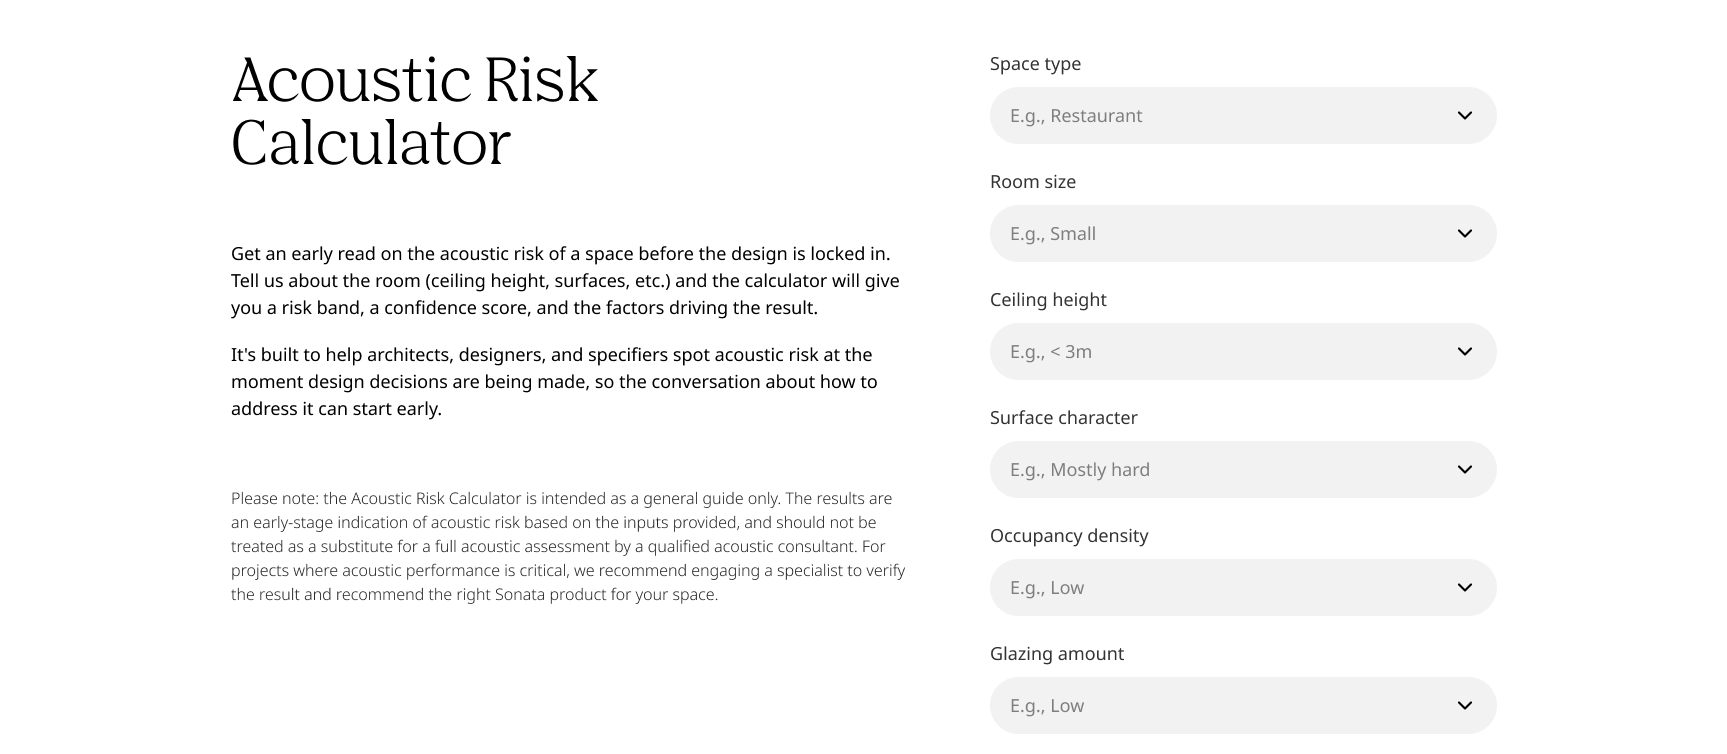
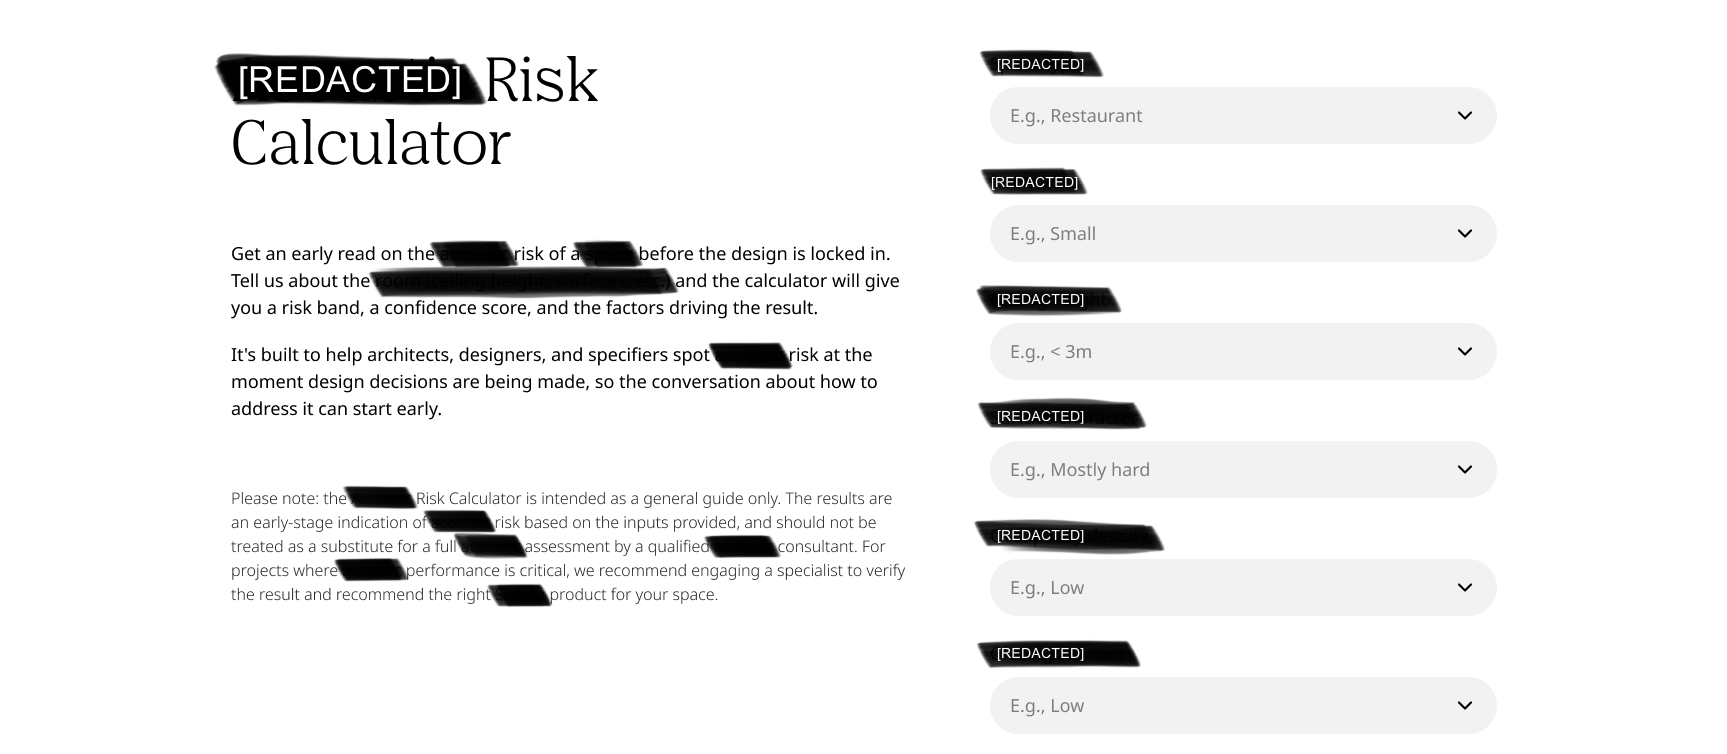
changing the sonata ai case study into a version that does not mention the client name or what the calculator does. Still need to update the hero, the two square images, and the tile image

diff --git a/src/data/caseStudies.ts b/src/data/caseStudies.ts
@@ -19,7 +19,7 @@ import sonataAi from '@assets/case-studies/sonata-ai/tile.webp'
 import aiRiskCalculator from '@assets/case-studies/ai-risk-calculator/tile.webp'
 import pfg from '@assets/case-studies/pfg/tile.webp'
 import fortKnox from '@assets/case-studies/fort-knox/tile.webp'
-import pixelAssist from '@assets/case-studies/pixel-assist/tile.svg'
+import pixelAssist from '@assets/case-studies/pixel-assist/tile.webp'
 
 import bhnDrawer from '@assets/case-studies/bhn/drawer.webp'
 import yoplaitDrawer from '@assets/case-studies/yoplait/drawer.webp'
